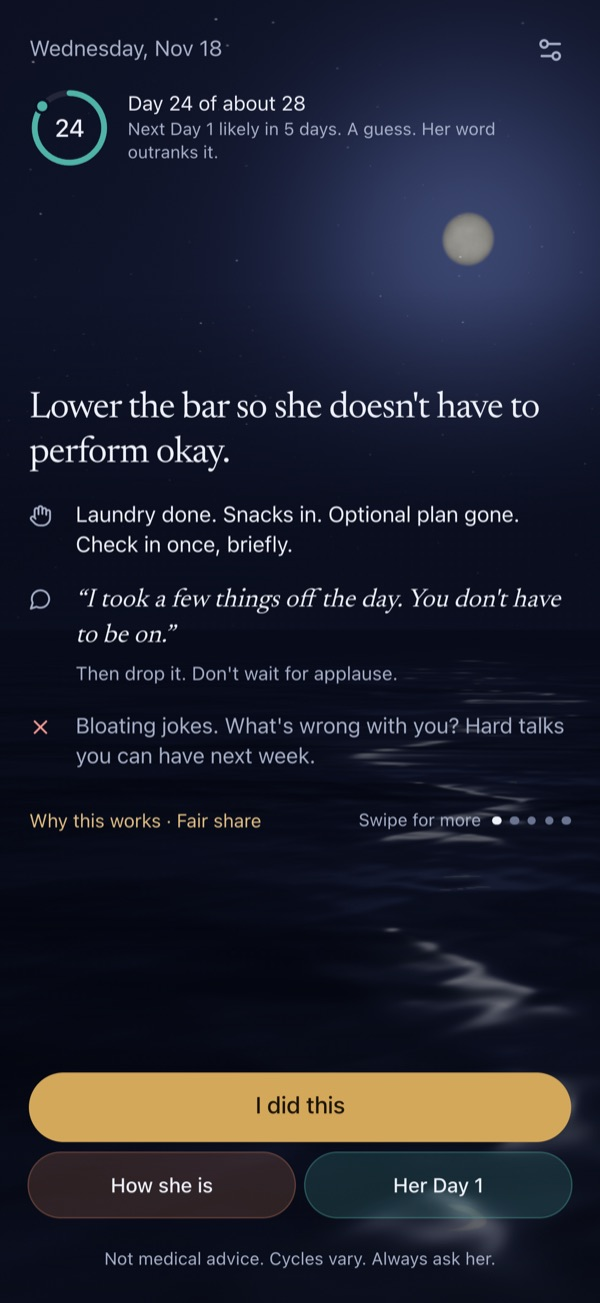
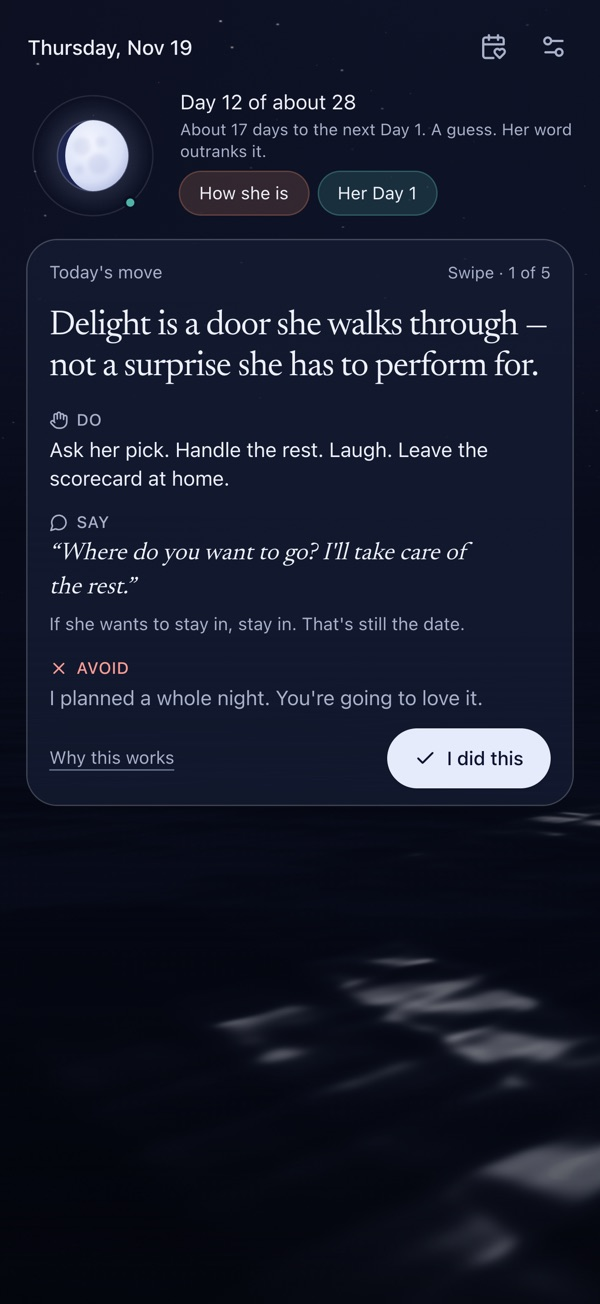
Care4Her 1.1: dates that matter, on-device Apple Intelligence, moonlight palette, updated privacy policy

diff --git a/index.html b/index.html
@@ -27,7 +27,7 @@
     <div class="hero">
       <div>
         <h1 class="rise">One small thing for her.<br><span class="brass">Every day.</span></h1>
-        <p class="lede rise d1">Something to do, something to say, and something to avoid. Private, on your iPhone only.</p>
+        <p class="lede rise d1">Something to do, something to say, and something to avoid. Plans for the dates that matter. Private, on your iPhone only.</p>
         <div class="cta rise d2">
           <a class="btn btn-primary" href="https://apps.apple.com/app/id6836487883">
             <svg viewBox="0 0 24 24" fill="currentColor" aria-hidden="true"><path d="M16.37 12.6c-.02-2.27 1.86-3.36 1.94-3.41-1.06-1.55-2.7-1.76-3.28-1.78-1.4-.14-2.73.82-3.44.82-.71 0-1.8-.8-2.96-.78-1.52.02-2.93.89-3.71 2.25-1.58 2.75-.4 6.81 1.14 9.04.75 1.09 1.65 2.31 2.82 2.27 1.13-.05 1.56-.73 2.93-.73 1.37 0 1.75.73 2.95.71 1.22-.02 1.99-1.11 2.73-2.2.86-1.26 1.21-2.48 1.23-2.55-.03-.01-2.36-.9-2.38-3.58zM14.12 5.93c.62-.76 1.04-1.8.93-2.85-.9.04-1.99.6-2.63 1.35-.58.67-1.08 1.74-.95 2.77 1 .08 2.03-.51 2.65-1.27z"/></svg>
@@ -37,7 +37,7 @@
         </div>
         <p class="fine rise d2">For iPhone · No account · No subscription · Works offline</p>
       </div>
-      <div class="phone rise d1"><img src="img/01-today.jpg" alt="The Today screen in Care4Her: Day 24 of about 28, and a move with what to do, what to say and what to avoid." width="600" height="1304"></div>
+      <div class="phone rise d1"><img src="img/01-today.jpg" alt="The Today screen in Care4Her: a moon showing where she is in her cycle, and a move with what to do, what to say and what to avoid." width="600" height="1304"></div>
     </div>
 
     <section>
@@ -55,7 +55,7 @@
 
         <div class="card" aria-label="Example of a day's move">
           <div class="day">
-            <svg class="ring" viewBox="0 0 52 52" aria-hidden="true"><circle cx="26" cy="26" r="22" fill="none" stroke="rgb(79 179 167 / 0.18)" stroke-width="4"/><circle cx="26" cy="26" r="22" fill="none" stroke="#4fb3a7" stroke-width="4" stroke-linecap="round" stroke-dasharray="138.2" stroke-dashoffset="19.7" transform="rotate(-90 26 26)"/><text x="26" y="31" text-anchor="middle" fill="#eef1fa" font-size="15" font-family="-apple-system, system-ui, sans-serif">24</text></svg>
+            <svg class="ring" viewBox="0 0 52 52" aria-hidden="true"><circle cx="26" cy="26" r="25" fill="none" stroke="rgb(255 255 255 / 0.1)"/><circle cx="26" cy="26" r="20" fill="#1c2550" stroke="rgb(214 224 255 / 0.22)"/><path d="M 26 6 A 20 20 0 0 0 26 46 A 8.678 20 0 0 1 26 6 Z" fill="#dfe5f8"/><circle cx="48.9" cy="15.9" r="3" fill="#4fb3a7" stroke="#0a0f22" stroke-width="1.5"/></svg>
             <div><b>Day 24 of about 28</b><span>A guess. Her word outranks it.</span></div>
           </div>
           <h3>Lower the bar so she doesn't have to perform okay.</h3>
@@ -64,8 +64,24 @@
             <li class="say"><svg viewBox="0 0 24 24" fill="none" stroke="currentColor" stroke-width="1.6" stroke-linecap="round" stroke-linejoin="round" aria-hidden="true"><path d="M21 11.5a8.4 8.4 0 0 1-12.2 7.5L3 21l2-5.8A8.4 8.4 0 1 1 21 11.5z"/></svg><span><q>I took a few things off the day. You don't have to be on.</q></span></li>
             <li class="avoid"><svg viewBox="0 0 24 24" fill="none" stroke="currentColor" stroke-width="1.8" stroke-linecap="round" aria-hidden="true"><path d="M6 6l12 12M18 6L6 18"/></svg><span>Bloating jokes. Hard talks you can have next week.</span></li>
           </ul>
-          <div class="why"><span>Why this works · Fair share</span><span class="dots" aria-hidden="true"><i></i><i></i><i></i><i></i><i></i></span></div>
+          <div class="why"><span>Why this works</span><span class="dots" aria-hidden="true"><i></i><i></i><i></i><i></i><i></i></span></div>
         </div>
+      </div>
+    </section>
+
+    <section>
+      <div class="privacy-grid">
+        <div>
+          <p class="eyebrow">New in 1.1</p>
+          <h2>The dates that matter, with a plan for each.</h2>
+          <p class="muted" style="margin:0 0 24px;max-width:46ch">Her birthday, your anniversary, the kids' birthdays, something big coming up for her, and the hard days. As each one gets close, the day's move changes to fit, and its plan makes sure the gift is ordered and the evening is clear in time.</p>
+          <ol class="steps">
+            <li><div><h3>A plan for every date</h3><p>Use the suggested plan as it is, or make it yours. It's laid out as a timeline, with today marked.</p></div></li>
+            <li><div><h3>It notices when dates collide</h3><p>A birthday two days after a hard anniversary, or her big week right before yours. The plan says what to have ready.</p></div></li>
+            <li><div><h3>Apple Intelligence, on your iPhone only</h3><p>Optional. Type a date the way you'd say it, and add notes about her that fit the plan to her. It runs on the iPhone's own chip, works offline, and sends nothing anywhere.</p></div></li>
+          </ol>
+        </div>
+        <div class="phone"><img src="img/03-plan.jpg" alt="A plan for her birthday in Care4Her: notes about her, facts picked out on the iPhone, and steps on a timeline." width="600" height="1304" loading="lazy"></div>
       </div>
     </section>
 
@@ -83,7 +99,7 @@
             <div class="row"><span class="label">Erase after 10 wrong PINs<small>Optional. Off unless you turn it on.</small></span></div>
             <div class="row"><span class="label">Plain app icon<small>Swap the icon for a quieter one.</small></span></div>
           </div>
-          <p class="group-foot">Everything stays on this iPhone, encrypted. No account, no cloud, no backups.</p>
+          <p class="group-foot">Everything stays on this iPhone, encrypted. No account, no cloud, no backups. Works with no internet, Apple Intelligence included.</p>
 
           <p class="group-label">What we never do</p>
           <div class="group">
@@ -92,7 +108,7 @@
             <div class="row"><svg class="check" viewBox="0 0 24 24" fill="none" stroke="currentColor" stroke-width="2" stroke-linecap="round" stroke-linejoin="round" aria-hidden="true"><path d="M5 12.5l4.5 4.5L19 7"/></svg><span class="label">Send anything over the internet</span></div>
           </div>
         </div>
-        <div class="phone"><img src="img/04-privacy.jpg" alt="Care4Her Settings: her dates, privacy options, background and a daily reminder." width="600" height="1304" loading="lazy"></div>
+        <div class="phone"><img src="img/06-lock.jpg" alt="The Care4Her lock screen: stored only on this iPhone, never in the cloud." width="600" height="1304" loading="lazy"></div>
       </div>
     </section>
 
@@ -109,6 +125,8 @@
           <details><summary><span>Does it need the internet?</span><svg viewBox="0 0 16 16" fill="none" stroke="currentColor" stroke-width="2" stroke-linecap="round" stroke-linejoin="round" aria-hidden="true"><path d="M6 3l5 5-5 5"/></svg></summary><p>No. It works fully offline and sends nothing anywhere.</p></details>
           <details><summary><span>Do I have to enter dates?</span><svg viewBox="0 0 16 16" fill="none" stroke="currentColor" stroke-width="2" stroke-linecap="round" stroke-linejoin="round" aria-hidden="true"><path d="M6 3l5 5-5 5"/></svg></summary><p>No. Choose “Use it without dates” during setup, or turn “Keep her dates” off later in Settings, which deletes them. You'll get everyday moves instead.</p></details>
           <details><summary><span>Can I turn the moving background off?</span><svg viewBox="0 0 16 16" fill="none" stroke="currentColor" stroke-width="2" stroke-linecap="round" stroke-linejoin="round" aria-hidden="true"><path d="M6 3l5 5-5 5"/></svg></summary><p>Yes. Settings → Background lets you pick Ocean, Calm ocean, Still or Off. The app also follows your iPhone's Reduce Motion setting.</p></details>
+          <details><summary><span>Does Apple Intelligence send my notes anywhere?</span><svg viewBox="0 0 16 16" fill="none" stroke="currentColor" stroke-width="2" stroke-linecap="round" stroke-linejoin="round" aria-hidden="true"><path d="M6 3l5 5-5 5"/></svg></summary><p>No. Care4Her uses only Apple's on-device model, on iPhones that have Apple Intelligence turned on. It runs on the phone's own chip and works in flight mode. It's off until you turn it on in Settings, and turning it off deletes everything it picked out.</p></details>
+          <details><summary><span>What do date alerts show on my lock screen?</span><svg viewBox="0 0 16 16" fill="none" stroke="currentColor" stroke-width="2" stroke-linecap="round" stroke-linejoin="round" aria-hidden="true"><path d="M6 3l5 5-5 5"/></svg></summary><p>At most one alert a day, saying only “2 things to do today” or “Something's coming up”. Turn on “Say what's due” in Settings if you want it to name the step and the date.</p></details>
           <details><summary><span>Is there a subscription?</span><svg viewBox="0 0 16 16" fill="none" stroke="currentColor" stroke-width="2" stroke-linecap="round" stroke-linejoin="round" aria-hidden="true"><path d="M6 3l5 5-5 5"/></svg></summary><p>No. You pay once on the App Store. No in-app purchases.</p></details>
         </div>
 

diff --git a/privacy.html b/privacy.html
@@ -24,7 +24,7 @@
 
   <main class="doc narrow">
 <h1>Privacy policy</h1>
-<p class="muted">Effective November 17, 2026</p>
+<p class="muted">Effective November 19, 2026 (version 1.1)</p>
 
 <p>Care4Her is made by Zeeq AI Solutions LLC (“we”). This policy explains what the app does with information.</p>
 
@@ -39,18 +39,23 @@
 <li>Your cycle length setting.</li>
 <li>What she told you today. It is replaced each day; no history is kept.</li>
 <li>Which days you tapped “I did this”.</li>
-<li>Your settings: Face ID on or off, lock behaviour, reminder time, and which app icon you chose.</li>
+<li>Moments you add: a few words for each date (for example “Her birthday”), the date, your plan for it, and any notes you write about her for planning. One-off dates are deleted 30 days after they pass.</li>
+<li>If you turn on Apple Intelligence: the short facts it picked out of your notes (for example a name or a food). You can remove any of them, and turning Apple Intelligence off deletes them all.</li>
+<li>Your settings: Face ID on or off, lock behaviour, reminder and alert times, and which app icon you chose.</li>
 </ul>
 <p>All of this is stored in the iOS Keychain on your iPhone, set to “this device only”. It is not included in iCloud or device backups, and it is not transferred to a new phone. The full list is always visible in the app under Settings → What this keeps.</p>
 
 <h2>What we collect</h2>
 <p>Nothing. Care4Her makes no network requests. We cannot see, access or recover anything you enter.</p>
 
+<h2>Apple Intelligence</h2>
+<p>Apple Intelligence is off until you turn it on. When it is on, Care4Her uses Apple's on-device model to turn a sentence you type into a date, and to pick facts out of your notes. This runs on your iPhone's own chip and works without an internet connection. Nothing you type is sent to us, to Apple, or to anyone else. Care4Her never uses Apple's cloud models.</p>
+
 <h2>Face ID</h2>
 <p>If you turn on Face ID, iOS handles it. Care4Her only learns whether unlocking succeeded. It never sees your face data.</p>
 
 <h2>Notifications</h2>
-<p>The daily reminder is off unless you turn it on, and iOS asks your permission first. It is scheduled on your phone, not sent from a server, and it only says “Today's move is ready.”</p>
+<p>Notifications are off unless you turn them on, and iOS asks your permission first. They are scheduled on your phone, not sent from a server. The daily reminder only says “Today's move is ready.” Date alerts arrive at most once a day and only say things like “2 things to do today”, unless you turn on “Say what's due”, which names the step and the date on your lock screen.</p>
 
 <h2>Deleting your data</h2>
 <p>In the app, go to Settings → Start over, or delete the app. Either removes everything.</p>

diff --git a/style.css b/style.css
@@ -8,9 +8,9 @@
   --muted: #a8b1c9;
   --subtle: #6b7591;
   --border: rgb(255 255 255 / 0.09);
-  --accent: #d4a85a;
-  --accent-fg: #1b1407;
-  --link: #e3c084;
+  --accent: #e6ebfb;
+  --accent-fg: #0b1230;
+  --link: #a9bcf5;
   --her: #c97b5a;
   --her-soft: rgb(201 123 90 / 0.2);
   --cycle: #4fb3a7;
@@ -60,7 +60,7 @@ p { text-wrap: pretty; }
 a { color: var(--link); text-underline-offset: 3px; }
 :focus-visible { outline: 2px solid var(--link); outline-offset: 3px; border-radius: 6px; }
 .muted { color: var(--muted); }
-.brass { color: var(--accent); }
+.brass { color: var(--link); }
 
 /* Hero */
 .hero { display: grid; grid-template-columns: 1.1fr 0.9fr; gap: 48px; align-items: center; padding: 48px 0 72px; }
@@ -118,7 +118,7 @@ section h2 { font-size: clamp(1.9rem, 4vw, 2.6rem); margin-bottom: 14px; }
 .steps li::before {
   counter-increment: s; content: counter(s);
   width: 36px; height: 36px; border-radius: 50%; display: grid; place-items: center;
-  font: 500 1.05rem/1 var(--display); color: var(--accent); box-shadow: inset 0 0 0 1px rgb(212 168 90 / 0.5);
+  font: 500 1.05rem/1 var(--display); color: var(--link); box-shadow: inset 0 0 0 1px rgb(169 188 245 / 0.5);
 }
 .steps h3 { font-size: 1.3rem; margin-bottom: 4px; }
 .steps p { margin: 0; color: var(--muted); }
@@ -130,7 +130,7 @@ section h2 { font-size: clamp(1.9rem, 4vw, 2.6rem); margin-bottom: 14px; }
 .row:first-child { border-top: 0; }
 .row .label { flex: 1; }
 .row .label small { display: block; color: var(--muted); font-size: 0.88rem; line-height: 1.4; margin-top: 2px; }
-.switch { width: 51px; height: 31px; border-radius: 999px; background: #b88a3e; position: relative; flex: none; }
+.switch { width: 51px; height: 31px; border-radius: 999px; background: #5f7fe0; position: relative; flex: none; }
 .switch::after { content: ""; position: absolute; top: 2px; right: 2px; width: 27px; height: 27px; border-radius: 50%; background: #fff; box-shadow: 0 2px 4px rgb(0 0 0 / 0.3); }
 .check { width: 22px; height: 22px; color: var(--cycle); flex: none; }
 .group-foot { font-size: 0.88rem; color: var(--muted); margin: 8px 16px 0; }
